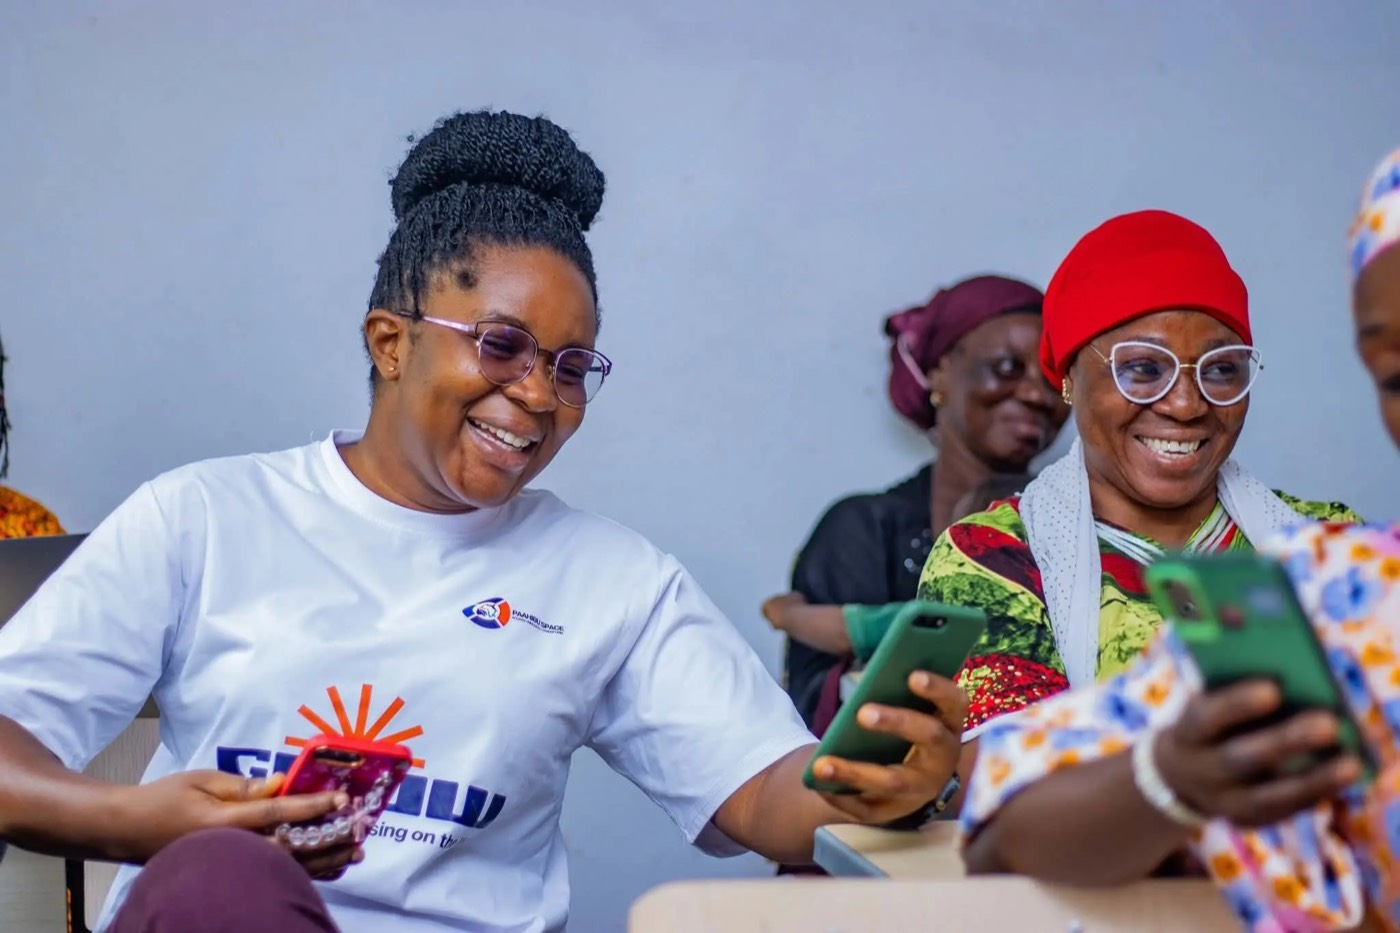
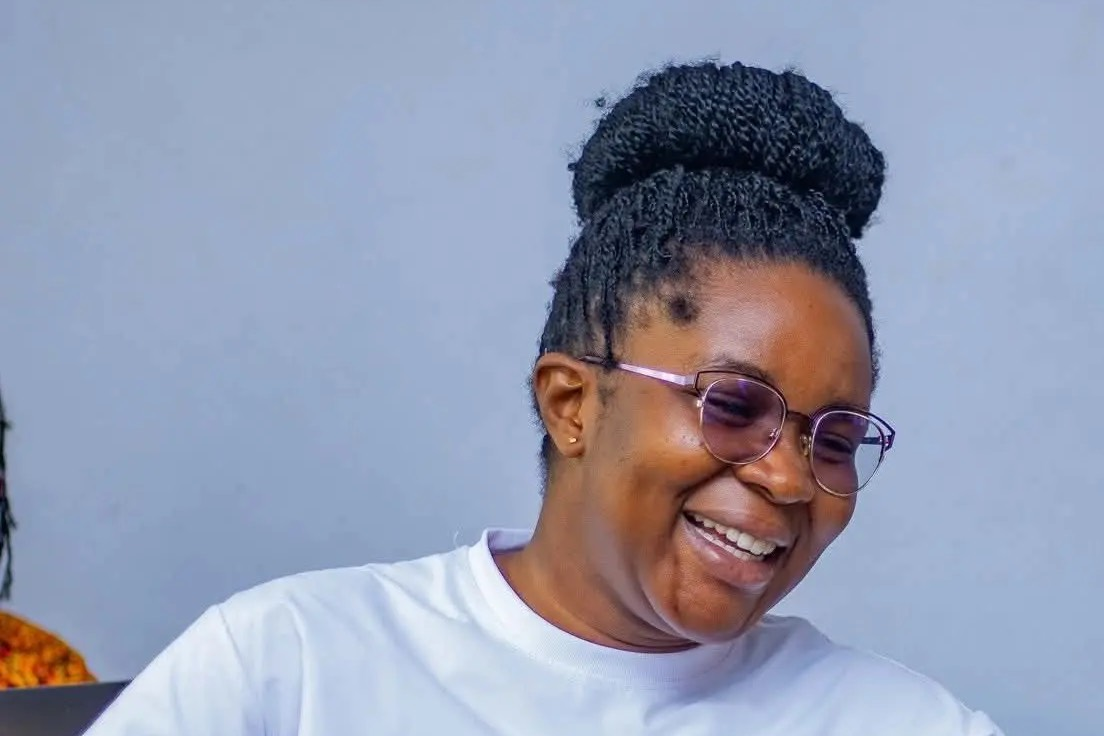
Brand navy #00194c, visible button hover, re-crop sensitive photos
- Navy is now #00194c; primary buttons hover to #272974
- Re-crop or replace photos that showed a child or a third-party badge

diff --git a/components/ui/button.tsx b/components/ui/button.tsx
@@ -8,13 +8,13 @@ const buttonVariants = cva(
     {
         variants: {
             variant: {
-                default: "bg-navy text-white hover:bg-navy-deep",
+                default: "bg-navy text-white hover:bg-navy-hover",
                 destructive: "bg-red-700 text-white hover:bg-red-800",
                 outline: "border border-navy bg-transparent text-navy hover:bg-navy hover:text-white",
                 secondary: "border border-line bg-band text-navy hover:border-line-strong",
                 ghost: "text-navy hover:bg-band",
                 link: "text-navy underline decoration-transparent decoration-2 underline-offset-[6px] hover:decoration-primary",
-                navy: "bg-navy text-white hover:bg-navy-deep",
+                navy: "bg-navy text-white hover:bg-navy-hover",
                 cream: "bg-band text-navy hover:bg-line",
             },
             size: {

diff --git a/app/solutions/pos/page.tsx b/app/solutions/pos/page.tsx
@@ -293,7 +293,7 @@ export default function PosPage() {
                     <div className="media aspect-[3/2] w-full lg:col-span-7">
                         <Image
                             src="/images/pages/pos-thinking-laughing-phones.jpg"
-                            alt="A trainer in a GROW t-shirt and an older woman entrepreneur in a red cap laugh together while using their smartphones"
+                            alt="A trainer in a GROW t-shirt laughs during a training session"
                             fill
                             sizes="(min-width: 1024px) 660px, 100vw"
                             className="object-cover object-[40%_40%]"

diff --git a/components/sections/FeatureCards.tsx b/components/sections/FeatureCards.tsx
@@ -23,8 +23,8 @@ const features = [
         title: "Growth That Lasts",
         desc: "Build the skills, confidence, and business foundations to pursue new opportunities, make informed decisions, and create a business that can thrive over time.",
         image: "/images/paahibu/widib-woman-smiling-with-phone.jpg",
-        alt: "A smiling woman entrepreneur holding her phone among fellow participants",
-        position: "50% 35%",
+        alt: "Two women in hijabs study a bound workbook together at a training table as another participant reads beside them",
+        position: "50% 50%",
     },
 ];
 

diff --git a/content/solutions.ts b/content/solutions.ts
@@ -45,8 +45,8 @@ export const solutions: Record<SolutionSlug, Solution> = {
         area: { name: "Commerce", verbs: "Reach & Sell" },
         image: {
             src: "/images/pages/ecommerce-hero-woman-phone.jpg",
-            alt: "A smiling woman in a yellow print dress and white headwrap holds her phone during a training session",
-            position: "50% 30%",
+            alt: "A woman in a green hijab and glasses steadies her phone on a handheld camera rig during a training session",
+            position: "66% 50%",
         },
     },
     pos: {

diff --git a/app/globals.css b/app/globals.css
@@ -18,8 +18,9 @@
   /* Brand */
   --primary: #f6861e;
   --primary-ink: #a84f08;
-  --navy: #272974;
+  --navy: #00194c;
   --navy-deep: #1e2060;
+  --navy-hover: #272974; /* button hover tint, as on the auth pages and GUUBU */
 
   /* Neutrals */
   --band: #f5f5f3;
@@ -41,6 +42,7 @@
   --color-primary-ink: var(--primary-ink);
   --color-navy: var(--navy);
   --color-navy-deep: var(--navy-deep);
+  --color-navy-hover: var(--navy-hover);
   --color-band: var(--band);
   --color-line: var(--line);
   --color-line-strong: var(--line-strong);

diff --git a/components/sections/Hero.tsx b/components/sections/Hero.tsx
@@ -45,7 +45,7 @@ export function Hero() {
                         preload
                         fetchPriority="high"
                         sizes="(min-width: 1024px) 440px, 100vw"
-                        className="object-cover object-[38%_40%]"
+                        className="object-cover object-[80%_0%]"
                     />
                 </div>
             </div>
